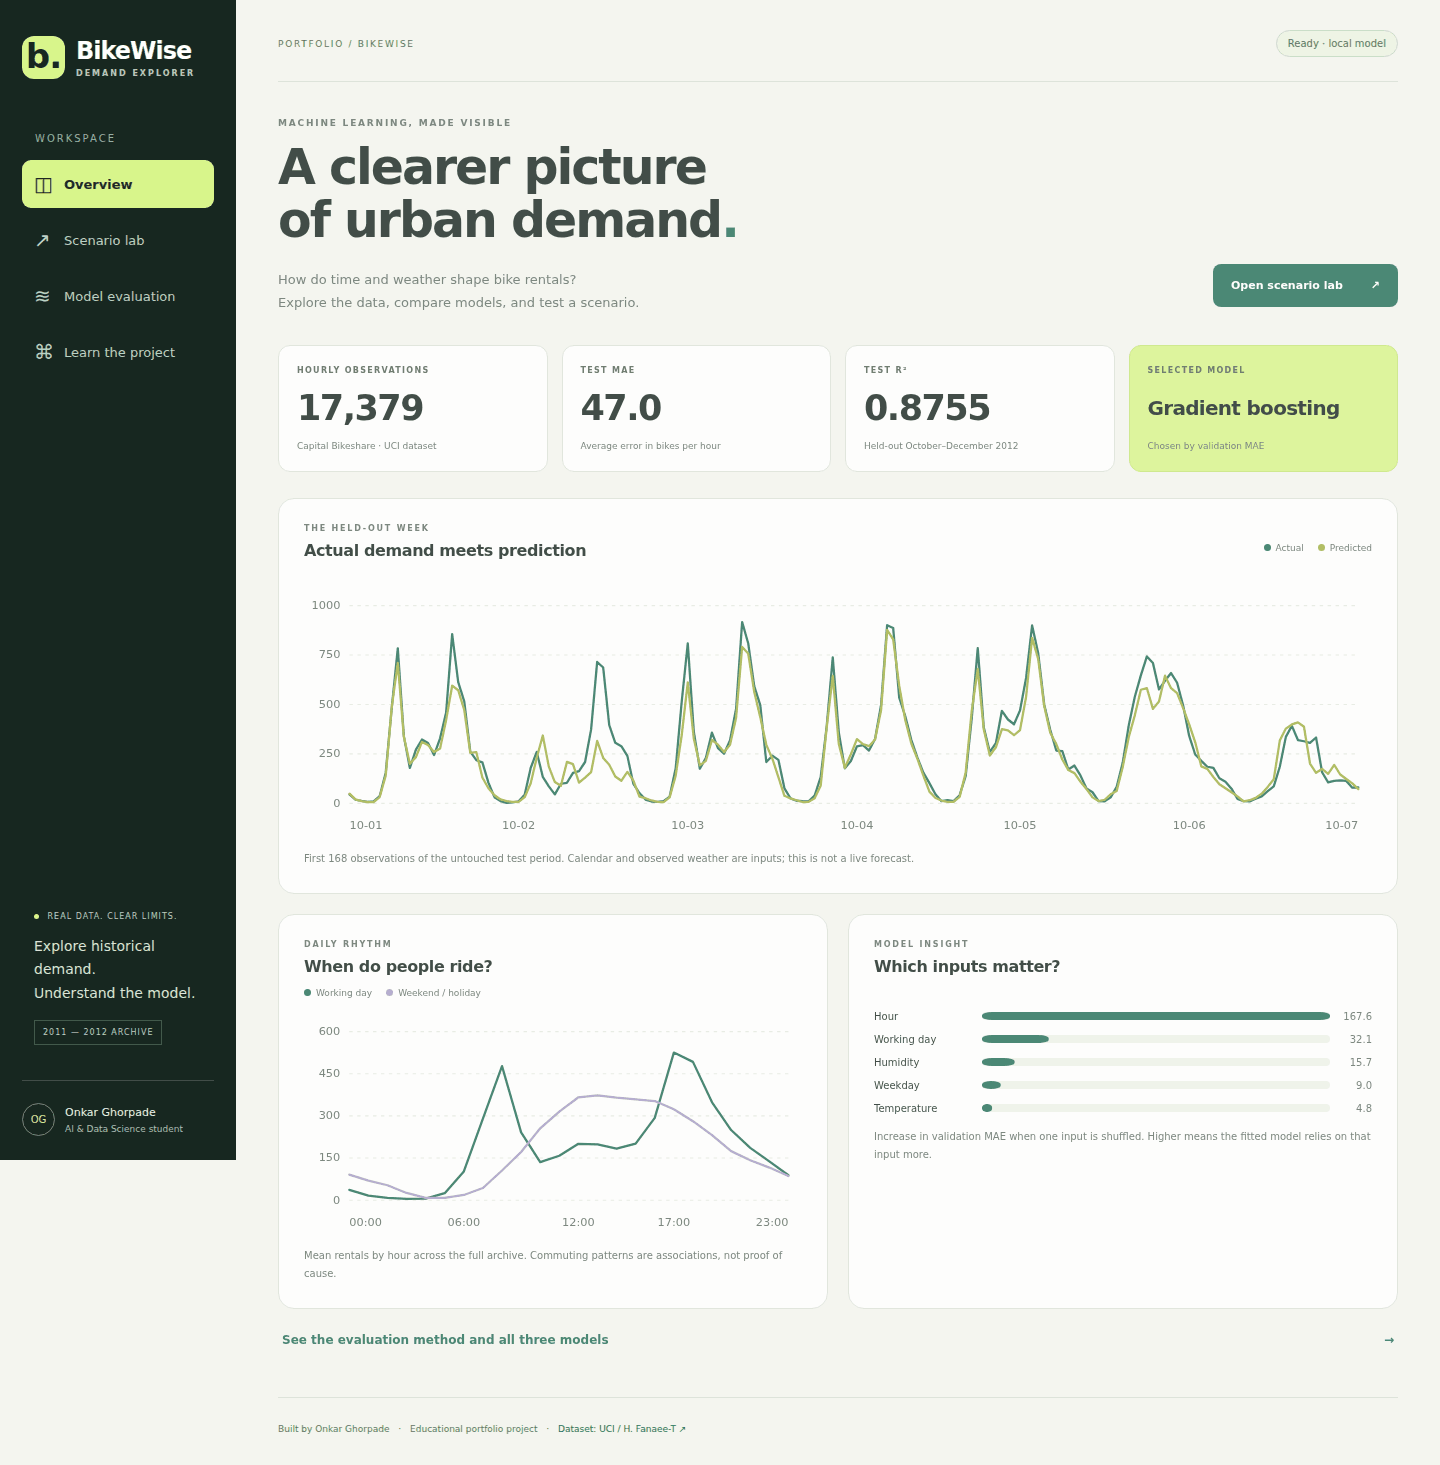
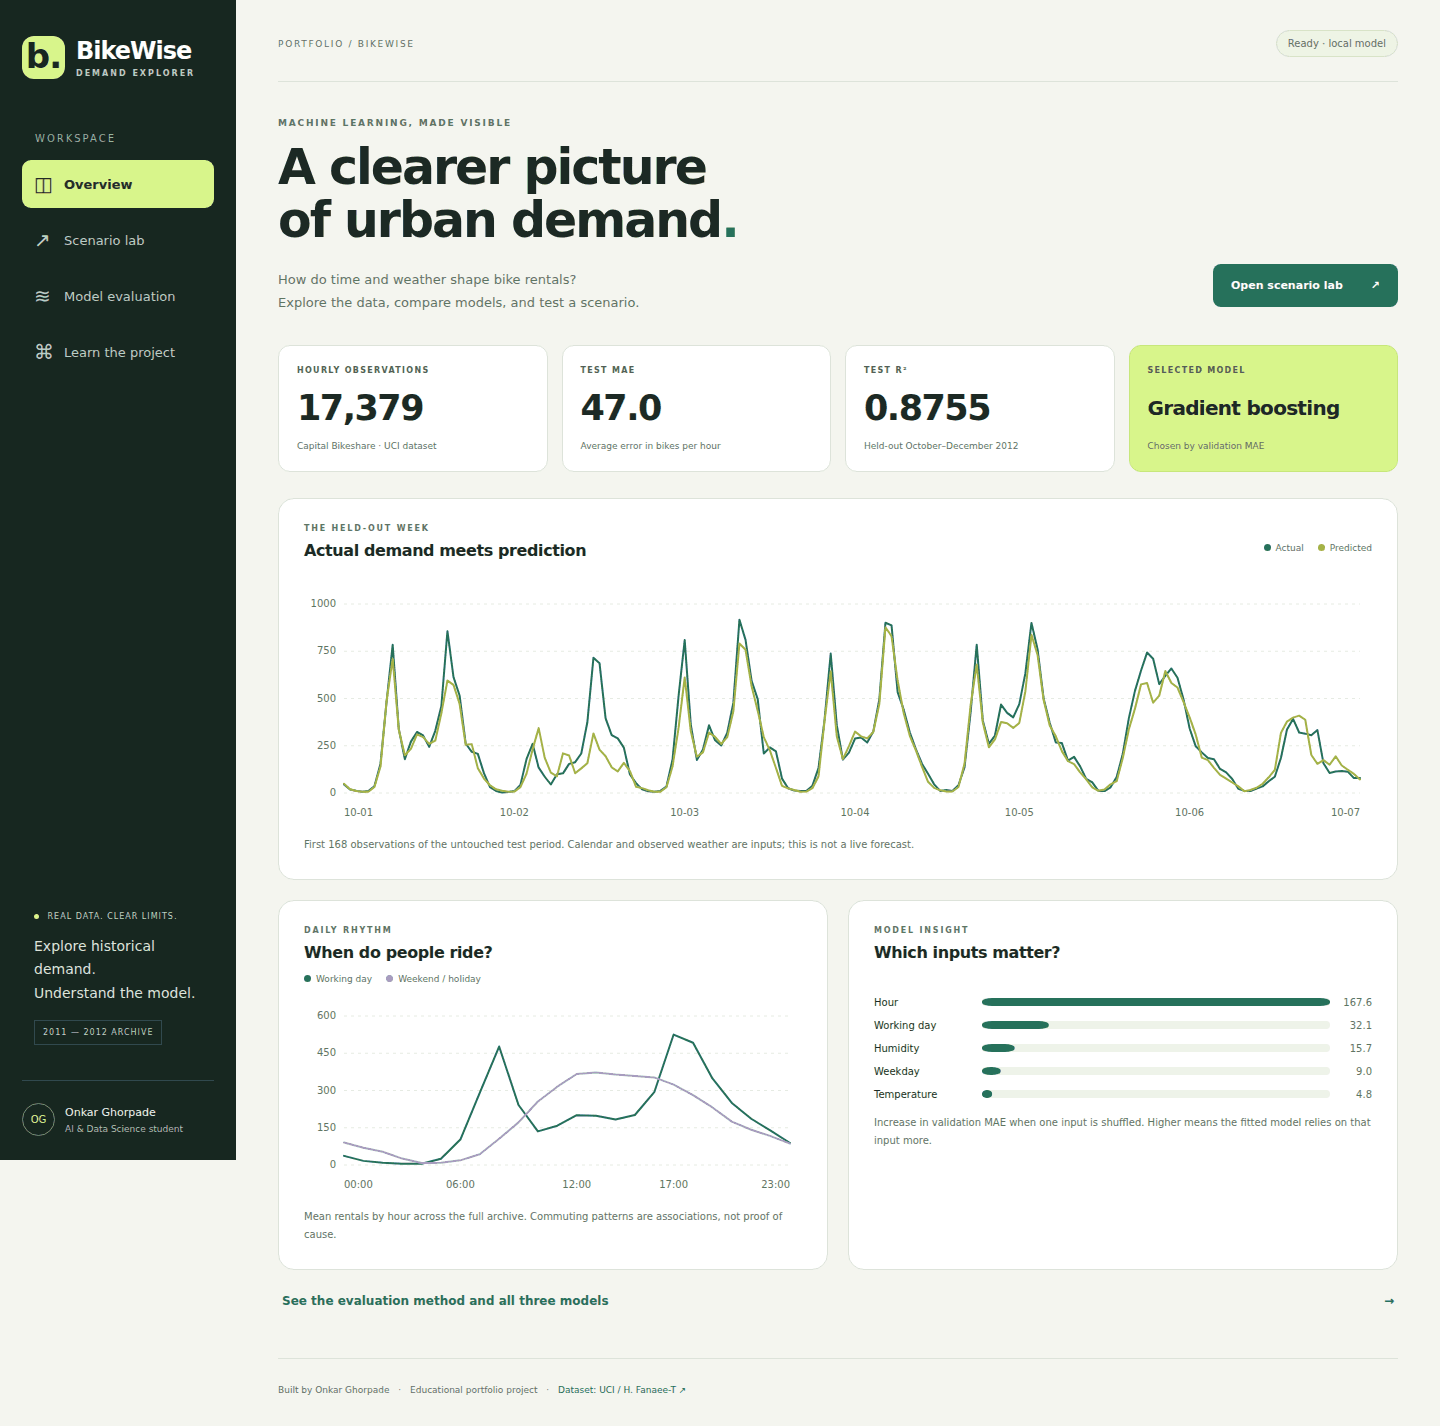
Keep dashboard charts readable on mobile and refresh the preview

diff --git a/projects/bikewise/static/app.js b/projects/bikewise/static/app.js
@@ -3,6 +3,8 @@ const $ = (id) => document.getElementById(id);
 const format = new Intl.NumberFormat("en-US");
 const svgNS = "http://www.w3.org/2000/svg";
 let report;
+const chartSpecs = new Map();
+let resizeTimer;
 
 function svg(tag, attrs = {}, text) {
   const el = document.createElementNS(svgNS, tag);
@@ -19,14 +21,27 @@ function route() {
     item.classList.toggle("active", active);
     if (active) item.setAttribute("aria-current", "page"); else item.removeAttribute("aria-current");
   }
+  requestAnimationFrame(redrawVisibleCharts);
 }
 window.addEventListener("hashchange", route);
+window.addEventListener("resize", () => {
+  clearTimeout(resizeTimer);
+  resizeTimer = setTimeout(redrawVisibleCharts, 100);
+});
 route();
+
+function redrawVisibleCharts() {
+  for (const [id, args] of chartSpecs) {
+    if ($(id).offsetParent !== null) lineChart(id, ...args);
+  }
+}
 
 function lineChart(id, data, series, title, xLabel) {
   const container = $(id);
+  chartSpecs.set(id, [data, series, title, xLabel]);
   container.replaceChildren();
-  const width = id === "actual-chart" ? 940 : 440, height = id === "actual-chart" ? 215 : 190;
+  const width = Math.max(280, Math.round(container.clientWidth));
+  const height = id === "actual-chart" ? 230 : 190;
   const pad = {left: 40, right: 12, top: 12, bottom: 29};
   const w = width - pad.left - pad.right, h = height - pad.top - pad.bottom;
   const max = Math.max(1, ...data.flatMap(row => series.map(s => row[s.key])));
@@ -38,7 +53,7 @@ function lineChart(id, data, series, title, xLabel) {
     drawing.append(svg("line", {x1:pad.left, y1:y, x2:width-pad.right, y2:y, stroke:"#e6ebe2", "stroke-dasharray":"3 4"}));
     drawing.append(svg("text", {x:pad.left-8, y:y+3, "text-anchor":"end"}, Math.round(ceiling*(1-i/4))));
   }
-  const ticks = id === "actual-chart" ? 7 : 5;
+  const ticks = id === "actual-chart" && width > 600 ? 7 : 5;
   for(let i=0;i<ticks;i++) {
     const index = Math.round((data.length-1)*i/(ticks-1));
     drawing.append(svg("text", {x:pad.left+w*index/(data.length-1),y:height-6,"text-anchor": i===0?"start":i===ticks-1?"end":"middle"}, xLabel(data[index])));
